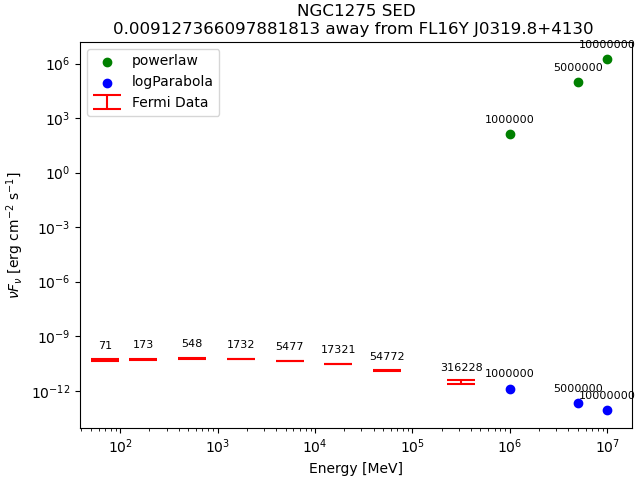
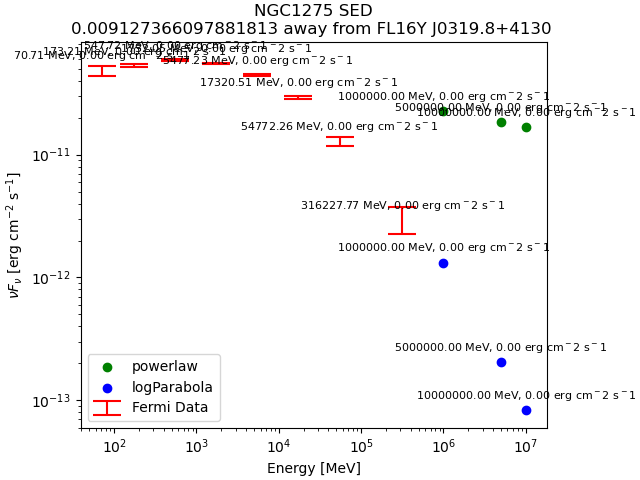
sed

diff --git a/fermi/sourcesfermi.py b/fermi/sourcesfermi.py
@@ -18,7 +18,7 @@ summary_rows = []
 # Load sources #
 df = pd.read_csv("data14-195.csv",sep='\\s+').to_numpy()
 
-sourceName = df[:,0]
+sourceName = df[:2,0]
 RA = df[:,1]
 Dec = df[:,2]
 
@@ -135,7 +135,7 @@ for i, s in enumerate(sourceName):
     print(f"Closest source was {sep_deg:.3f} deg away")
     summary_rows.append(cat[idx[i]])
     # Extrapolate to my energies #
-    dNdE_PL = flxden_PL[i] * (sy_en/pivot[i])**ix_PL[i]
+    dNdE_PL = flxden_PL[i] * (sy_en/pivot[i])**(-ix_PL[i])
     dNdE_LP = flxden_LP[i] * (sy_en/pivot[i])**(-(ix_LP[i] + beta_LP[i] * np.log(sy_en/pivot[i])))
 
     nuFnu_PL = sy_erg**2 * dNdE_PL/1.602e-6 # erg cm-2 s-1
@@ -156,19 +156,22 @@ for i, s in enumerate(sourceName):
             capsize=10,capthick=1.5,elinewidth=1.5,
             label="Fermi Data")
     for x, y in zip(e_mids, nufnu[i]):
-        plt.annotate(f"{x:.0f}", xy=(x, y), xytext=(0, 8),
+        plt.annotate(f"{x:.2f} MeV, {y:.2f} erg cm$^{-2}$ s$^{-1}$",
+                 xy=(x, y), xytext=(0, 8),
                  textcoords='offset points',
                  fontsize=8, ha='center')
 
     plt.scatter(sy_en,nuFnu_PL,label="powerlaw",color='green')
     for x, y in zip(sy_en, nuFnu_PL):
-        plt.annotate(f"{x:.0f}", xy=(x, y), xytext=(0, 8),
+        plt.annotate(f"{x:.2f} MeV, {y:.2f} erg cm$^{-2}$ s$^{-1}$",
+                 xy=(x, y), xytext=(0, 8),
                  textcoords='offset points',
                  fontsize=8, ha='center')
 
     plt.scatter(sy_en,nuFnu_LP,label="logParabola",color='blue')
     for x, y in zip(sy_en, nuFnu_LP):
-        plt.annotate(f"{x:.0f}", xy=(x, y), xytext=(0, 8),
+        plt.annotate(f"{x:.2f} MeV, {y:.2f} erg cm$^{-2}$ s$^{-1}$",
+                 xy=(x, y), xytext=(0, 8),
                  textcoords='offset points',
                  fontsize=8, ha='center')
 
